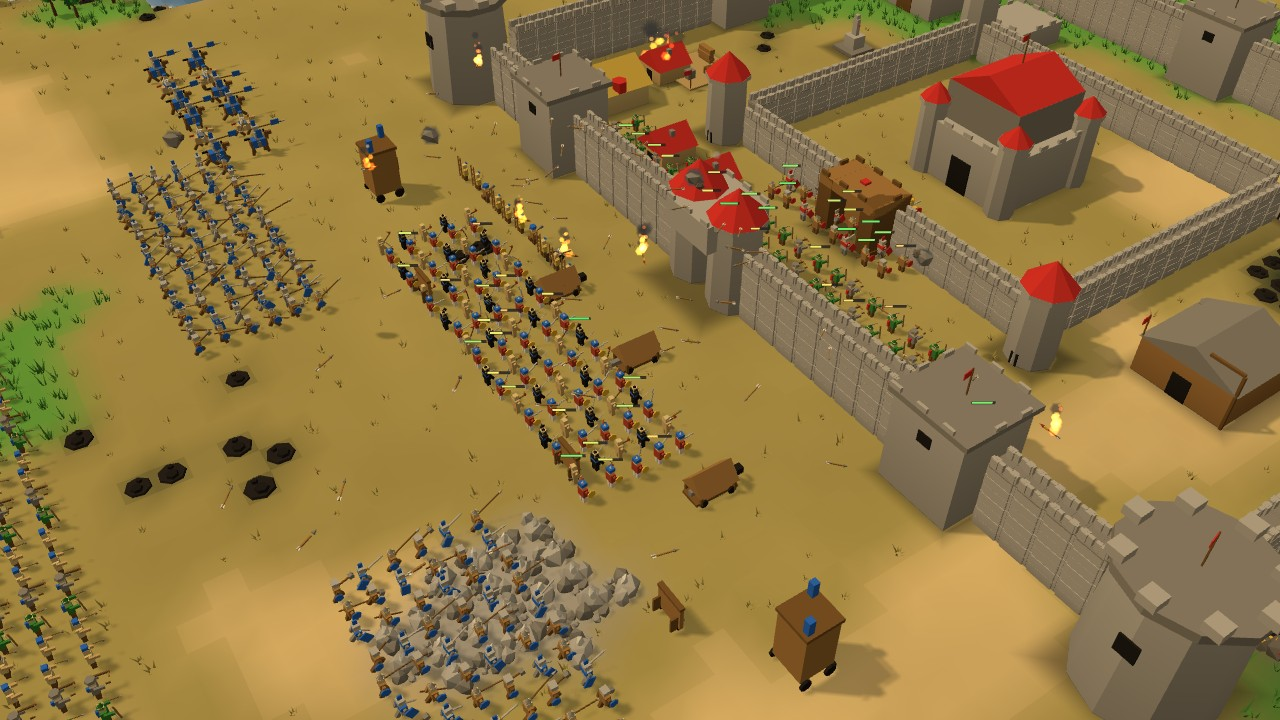
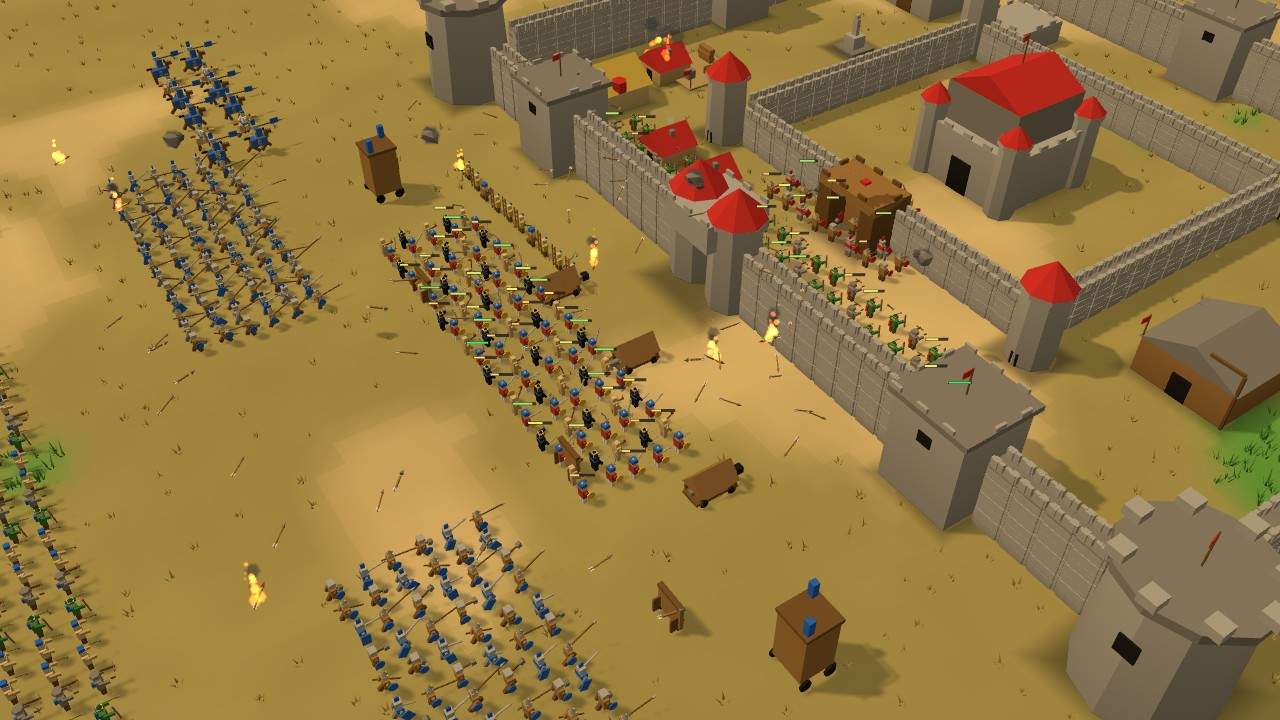
Phase 4B: Vorher-Bilder neu mit Seed 1 (gemäßigte Karte), Szenen auf ebenen Flächen ohne Vorkommen
Claude-Session: https://claude.ai/code/session_01RfbHv6VQ2w2xMfoijsVEEd

diff --git a/packages/client/src/showcase_scenes.ts b/packages/client/src/showcase_scenes.ts
@@ -163,8 +163,8 @@ export function findCliffs(map: GameMap): Spot {
  * Beste Stelle für eine Bebauung: Rechteck x±hw, y−up .. y+down mit möglichst viel Land (Wasser/Fels zählen nicht),
  * vollständig innerhalb der Karte; bei Gleichstand näher an der Kartenmitte.
  */
-export function findFlat(map: GameMap, hw: number, up: number, down: number): Spot {
-  const m = 16;
+export function findFlat(map: GameMap, hw: number, up: number, down: number, margin = 26): Spot {
+  const m = margin;
   return bestSpot(map, 0, 2, (x, y) => {
     if (x - hw < m || x + hw > map.w - m || y - up < m || y + down > map.h - m) return -1e9;
     let land = 0;
@@ -274,7 +274,7 @@ export function flatten(map: GameMap, x0: number, y0: number, x1: number, y1: nu
       if (!map.inBounds(x, y)) continue;
       const i = map.idx(x, y);
       const t = map.terrain[i];
-      if (t === T.Water || t === T.Rock || t === T.Swamp || t === T.Moat) map.terrain[i] = T.Steppe;
+      if (t === T.Water || t === T.Rock || t === T.Swamp || t === T.Moat || t === T.StoneDeposit || t === T.IronDeposit || t === T.PitchSpring) map.terrain[i] = T.Steppe;
       map.height[i] = height;
       map.trees[i] = 0;
     }
@@ -379,7 +379,7 @@ function block(p: Plan, types: number[], o: number, cx: number, cy: number, cols
 
 // ---------------------------------------------------------------- Szenen
 
-const SCENE_SEED = 7;
+const SCENE_SEED = 1;
 const MAP_SIZE = 128;
 
 function startOf(map: GameMap, i = 0): { x: number; y: number } {
@@ -469,7 +469,7 @@ export function sceneSpec(name: ShowName, seedOverride?: number): ShowSpec {
     }
     case 'siege': {
       desc = 'Belagerung: Burg mit Verteidigern, mehrere hundert Angreifer mit Rammböcken, Belagerungstürmen, Katapulten';
-      const { x, y } = findFlat(map, 34, 26, 58);
+      const { x, y } = findFlat(map, 34, 26, 58, 12);
       flatten(map, x - 34, y - 26, x + 34, y + 58);
       castle(p, x, y, 0, { moat: false });
       // Verteidiger hinter der Südmauer, einige verwundet
